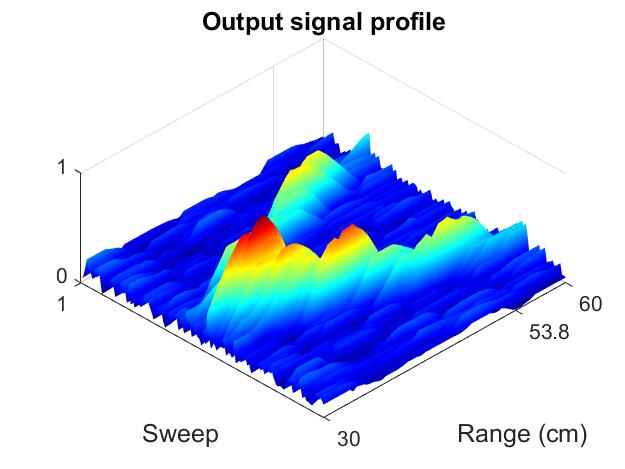
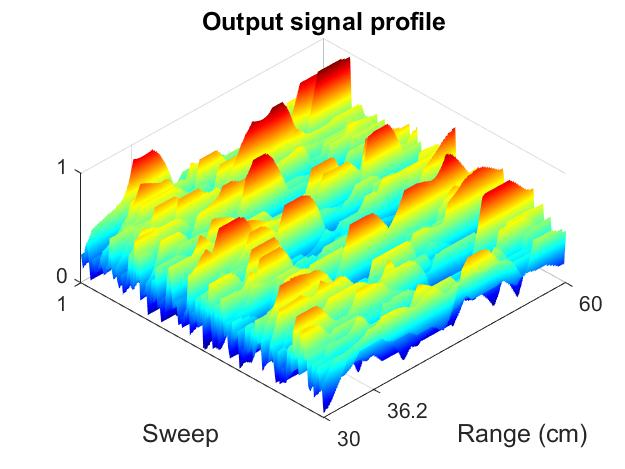
-

diff --git a/project-files/subgroupA/test1_xm112.m b/project-files/subgroupA/test1_xm112.m
@@ -10,7 +10,7 @@ Rstep  = 4.8400e-04;    % meter
 
 FrameRate = 128;
 
-filename = "raw data xm122\0.3-0.6 40Hz 128 frames\press 1.h5";
+filename = "raw data xm122\0.3-0.6 30hZ 128frames\right 2.h5";
 info = h5info(filename);
 
 data = h5read(filename, "/data");
